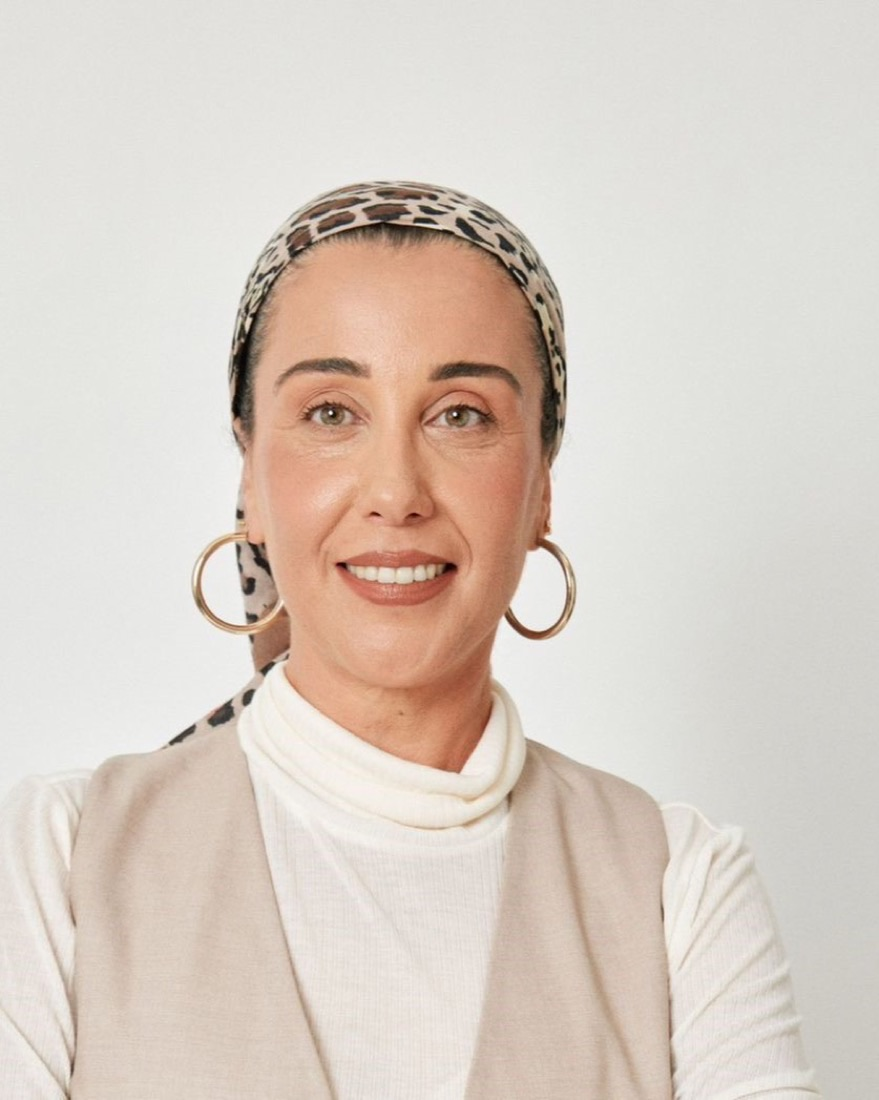
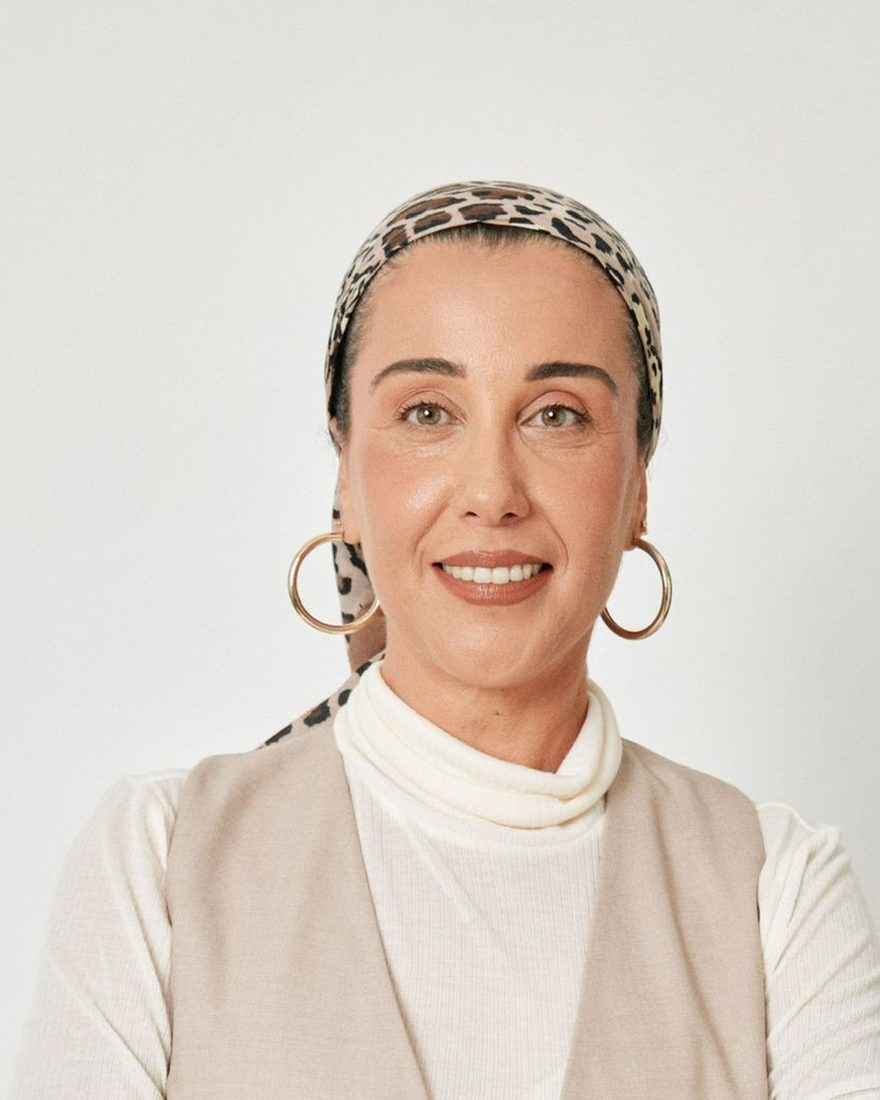
הסיפור: חיתוך סימטרי לפורטרט, ממורכז על הכתפיים

diff --git a/index.html b/index.html
@@ -1432,7 +1432,7 @@
       <p class="sig rise">נעים מאוד, אני ריקי זבולון.</p>
 
       <figure class="about-portrait rise">
-        <img src="images/riki.jpg" width="879" height="1100" loading="lazy"
+        <img src="images/riki.jpg" width="880" height="1100" loading="lazy"
              alt="ריקי זבולון, המייסדת של RIKIZ, בפורטרט סטודיו">
       </figure>
     </div>
